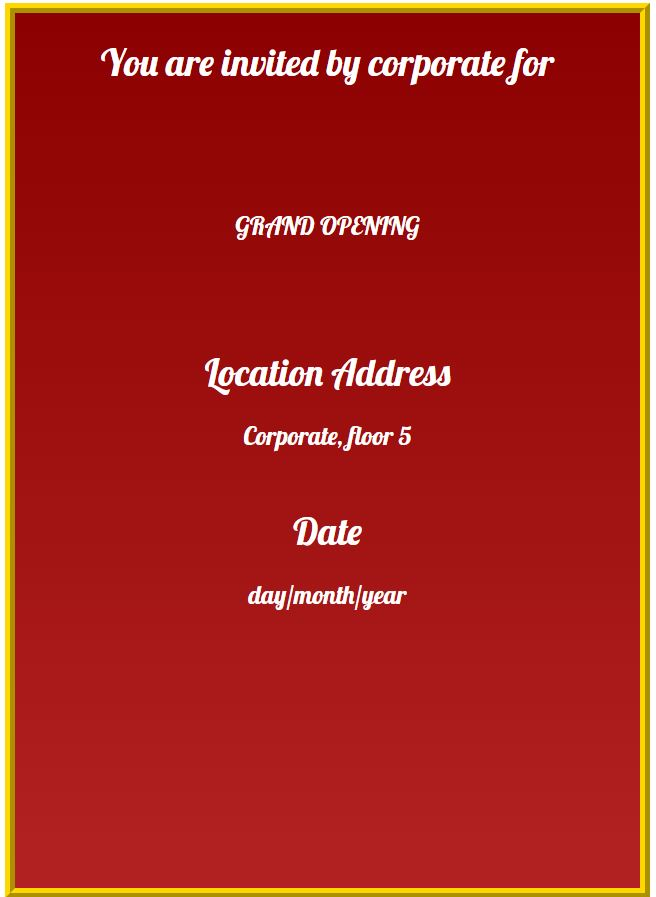
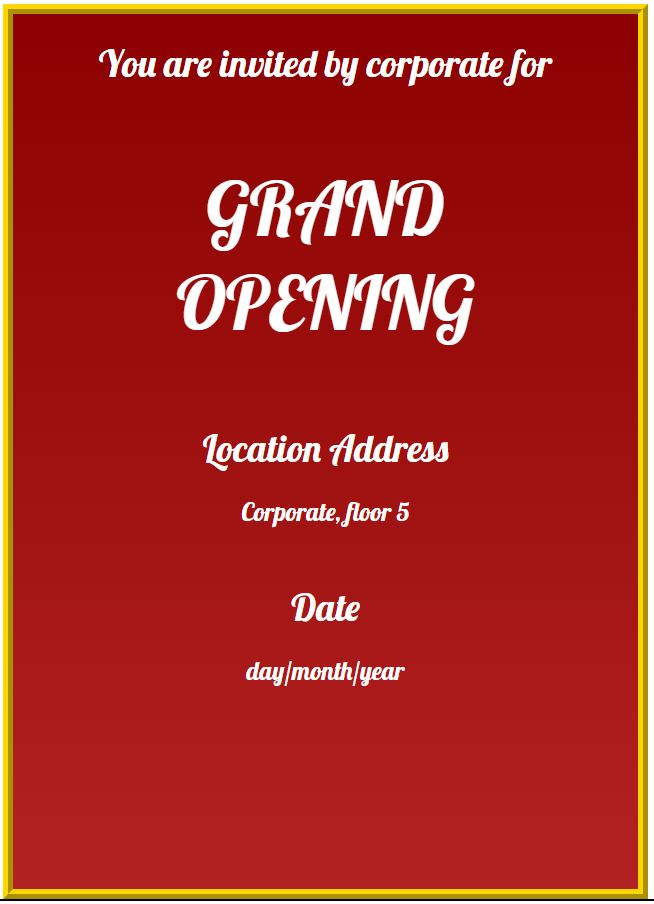
z

diff --git a/CorporateTemplate2.html b/CorporateTemplate2.html
@@ -25,12 +25,10 @@ git push -u origin main-->
     padding-top:100px;
   }
 
-
-
   p{
     padding: 0;
     font-size: 20px;
-    font-family: Garamond;
+    font-family: Gabriola;
   }
 
   #Company{
@@ -61,9 +59,10 @@ git push -u origin main-->
     margin: 0 auto;
     border: 2px solid black;
     display: block;
-
   }
+
 </style>
+
 <script>
 function ChangeMe(){
   var eventname = document.getElementById("eventname").value;
@@ -103,7 +102,6 @@ function ChangeMe(){
   console.log(localStorage);*/
 }
 
-
 </script>
   </head>
   <body>
@@ -116,46 +114,46 @@ function ChangeMe(){
         <div id="Address">Corporate 123 Street</div>
 
         <p>Phone Number</p>
-      <div id="Phone">1234567</div>
+        <div id="Phone">1234567</div>
 
         <p>Email Address</p>
-      <div id="Email">Corporate@gmail.com</div>
+        <div id="Email">Corporate@gmail.com</div>
 
         <p>Company Website</p>
-      <div id="Website">www.Corporate.com</div>
+        <div id="Website">www.Corporate.com</div>
       </div>
     </div>
 
-  <form>
-    <label>Event name:</label>
-    <div class="drag1">
-      <input id="eventname" type="text"/><br>
-    </div>
+    <form>
+      <label>Event name:</label>
+      <div class="drag1">
+        <input id="eventname" type="text"/><br>
+      </div>
 
-    <label>Phone Number</label>
-    <div class="drag1">
-      <input id="phone" type="number" pattern="[\d]{7}"/><br>
-    </div>
+      <label>Phone Number</label>
+      <div class="drag1">
+        <input id="phone" type="number" pattern="[\d]{7}"/><br>
+      </div>
 
-    <label>Email address</label>
-    <div class="drag1">
-      <input id="email" type="email"/><br>
-    </div>
+      <label>Email address</label>
+      <div class="drag1">
+        <input id="email" type="email"/><br>
+      </div>
 
-    <label>Website</label>
-    <div class="drag1">
-      <input id="website" type="url"/><br>
-    </div>
+      <label>Website</label>
+      <div class="drag1">
+        <input id="website" type="url"/><br>
+      </div>
 
-    <label>Address</label>
-    <div  class="drag1">
-      <textarea id="address" name="name" rows="8" cols="80"></textarea><br>
-    </div>
+      <label>Address</label>
+      <div  class="drag1">
+        <textarea id="address" name="name" rows="8" cols="80"></textarea><br>
+      </div>
 
-    <button type="button" name="button" onclick="ChangeMe()">Submit</button>
+      <button type="button" name="button" onclick="ChangeMe()">Submit</button>
   </form>
 
-    <button type="button" name="button"><a href = "Assigment.html">Back</a></button>
+  <button type="button" name="button"><a href = "Assigment.html">Back</a></button>
     </div>
   </body>
 </html>

diff --git a/CorporateTemplate1.html b/CorporateTemplate1.html
@@ -26,7 +26,6 @@ git push -u origin main-->
     font-size: 30px;
     display: block;
     text-align: center;
-
   }
 
   p{
@@ -34,9 +33,6 @@ git push -u origin main-->
     margin: 0 auto;
     text-align: center;
   }
-
-
-
 
   .drag2{
     height: 50px;
@@ -61,6 +57,7 @@ git push -u origin main-->
     font-size: 60px;
     padding-bottom: 100px;
   }
+  
 </style>
 
 <script>
@@ -81,6 +78,7 @@ function change(){
   localStorage.setItem("Date:",date);
 }
 </script>
+
   </head>
   <body>
     <div id="content">
@@ -93,23 +91,23 @@ function change(){
     </div>
 
     <form>
-    <label>Event name:</label>
-    <div class="drag1">
-      <input id="event1" type="text"><br>
-    </div>
+      <label>Event name:</label>
+      <div class="drag1">
+        <input id="event1" type="text"><br>
+      </div>
 
-    <label>Address</label>
-    <div  class="drag1">
-      <textarea id="address1"name="name" rows="3" cols="60"></textarea><br>
-    </div>
+      <label>Address</label>
+      <div  class="drag1">
+        <textarea id="address1"name="name" rows="3" cols="60"></textarea><br>
+      </div>
 
-    <label>Date:</label>
-    <div class="drag1">
-      <input id="date1"type="date"><br>
-    </div>
+      <label>Date:</label>
+      <div class="drag1">
+        <input id="date1"type="date"><br>
+      </div>
 
-    <button type="button" name="button" onclick="change()">Submit</button>
-  </form>
+      <button type="button" name="button" onclick="change()">Submit</button>
+    </form>
 
     <button type="button" name="button"><a href = "Assigment.html">Back</a></button>
   </body>

diff --git a/Assigment.html b/Assigment.html
@@ -4,28 +4,19 @@
     <meta charset="utf-8">
     <title>Create Template</title>
     <style media="screen">
-      #logo{
-        width:100px;
-        height:100px;
-      }
 
       #navigation{
         display: flex;
-        list-style: none;
         margin: 0;
         background: #f0ffff;
         flex-flow: row wrap;
         justify-content: center;
-      }
-
-      #navigation a{
-        text-decoration: none;
-        display: block;
+        text-align: center;
         color: silver;
         padding: 1em;
+        font-size: 80px;
+        font-family: Gabriola;
       }
-
-
 
 div {
     display: block;
@@ -45,12 +36,9 @@ div {
 
   </head>
   <body>
-    <ul id="navigation">
-      <li><a href="Home.html">Home</a></li>
-      <li><b>Template</b></li>
-      <li><a href="AboutUs.html">About</a></li>
-      <li><a href="Contact.html">Contact Us</a></li>
-    </ul>
+    <div id="navigation">
+      E-INVITATION CARD EDITOR
+    </div>
 
 
 
